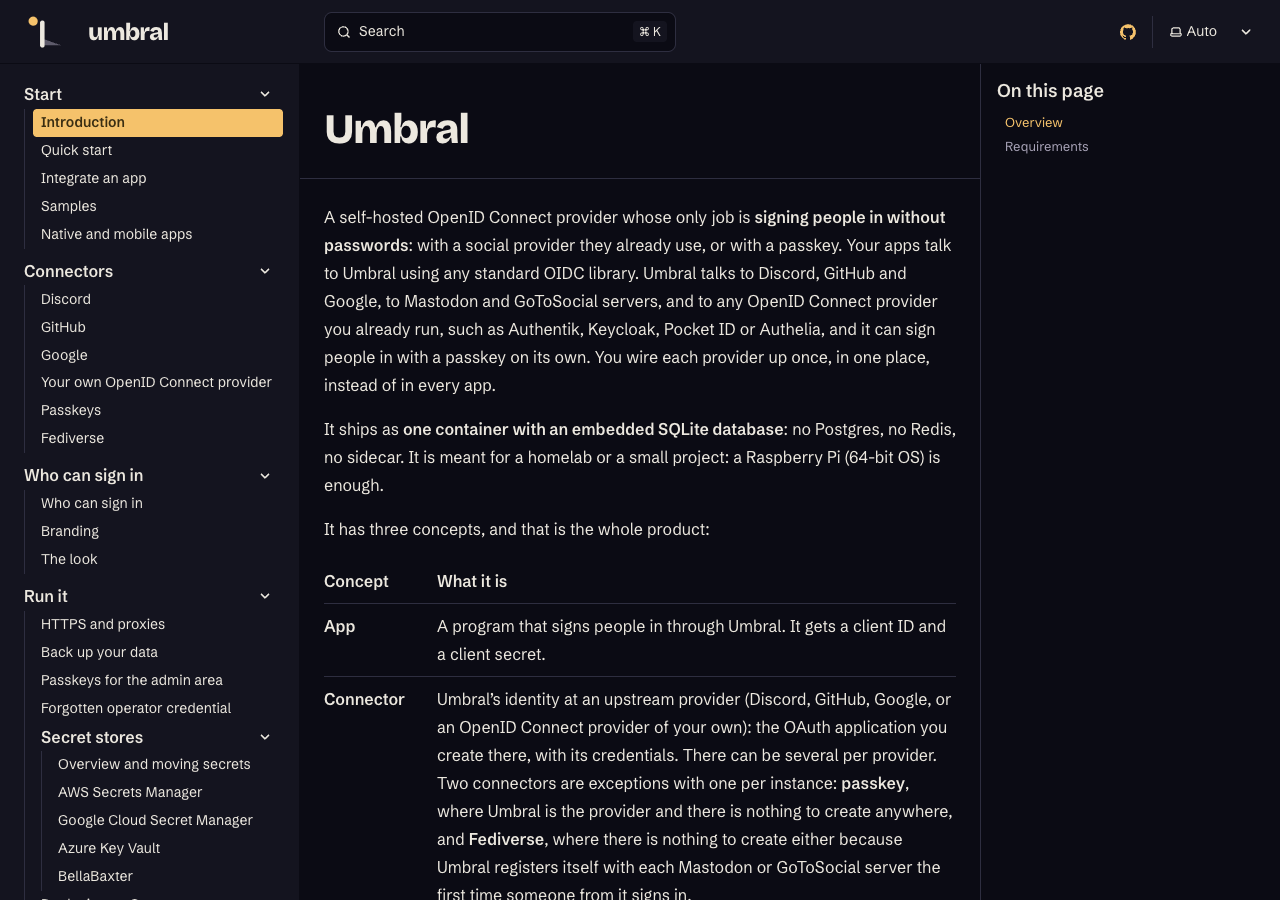
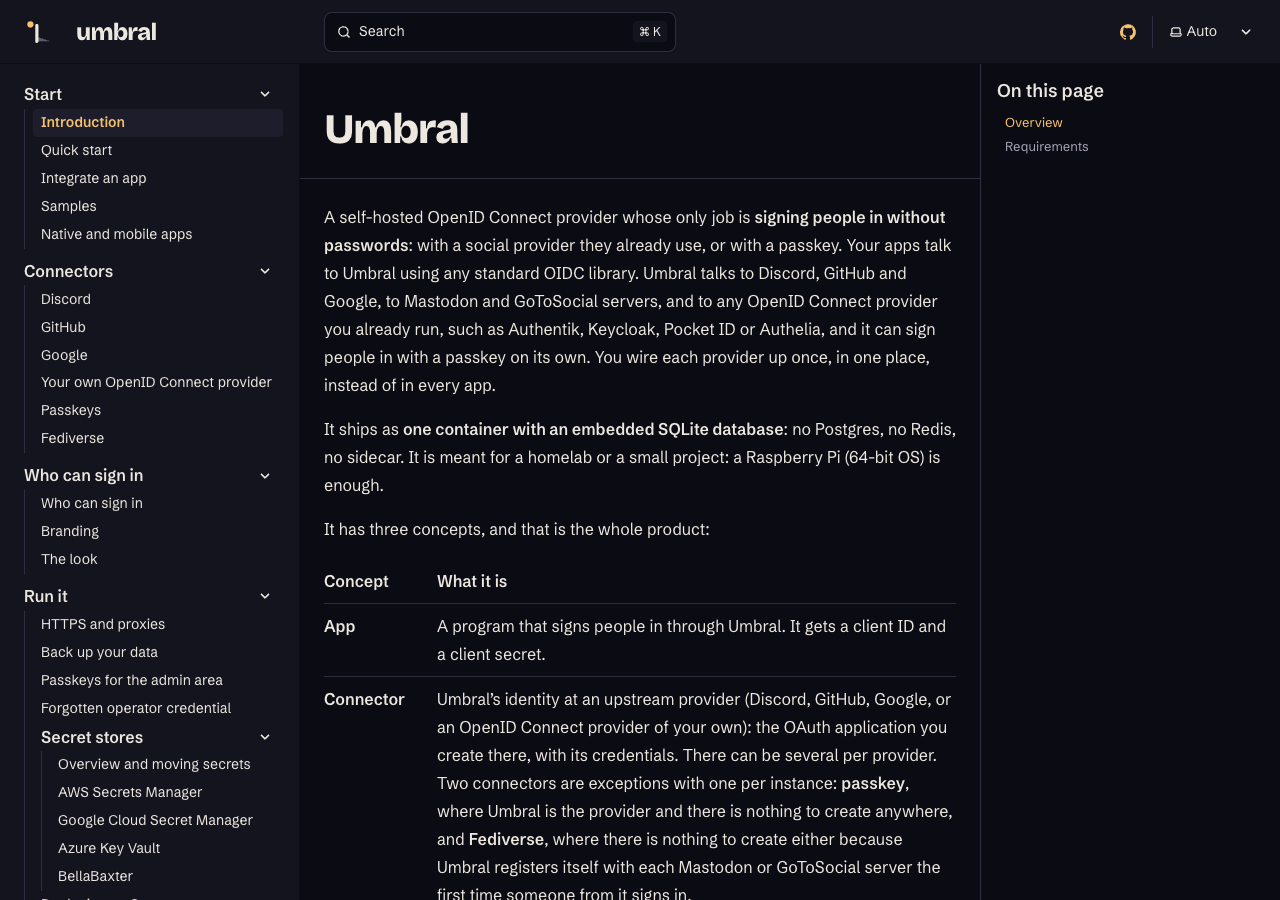
review(docs-site): take the design and documentation reviews (task hmfr)
Design (review.md, one blocking item and three nits, all in umbra.css):
the current sidebar entry is the product's rail, a tonal step with the label
in gold at 600, not Starlight's filled pill; h2 is headline large, 1.5rem on
2rem; the header mark is 1.75rem high; the search field's focus ring is the
gold, not the browser's blue. The pair is in the contrast table. All captures
retaken.

Documentation (review-docs.md, clear, four nits): the admin-area passkeys
are their own page, docs/run/operator-passkeys.md, titled as its sidebar row
(was docs/passkeys.md); the security-log sentence and the memory paragraph
about people's passkeys move into the walkthrough's Gotchas; the README's
"Run it for real" sentence takes the reviewer's wording; the release
workflow's comment names docs/run/caravana.md. The review's blocking item, a
log message in Program.fs that cites the README's Troubleshooting, is in the
follow-up task hhww, since this branch does not touch src/.

Changed region(s): [[0.0, 0.0933, 0.2188, 0.1556], [0.0312, 0.0311, 0.125, 0.0622]]

diff --git a/site/src/styles/umbra.css b/site/src/styles/umbra.css
@@ -60,6 +60,9 @@
      the page colour here; the hairline of both themes is the fifth step. */
   --sl-color-hairline: var(--sl-color-gray-5);
   --sl-color-hairline-light: var(--sl-color-gray-5);
+
+  /* Behind the current entry of the sidebar: the product's high tonal step. */
+  --umbra-current-bg: #1d1d2b;
 }
 
 :root[data-theme='light'] {
@@ -78,6 +81,8 @@
 
   /* The sidebar sits on the same paper as the header. */
   --sl-color-bg-sidebar: var(--sl-color-gray-7);
+
+  --umbra-current-bg: #ebe5d8;
 }
 
 /* The page title and the sections of a page in the display face; h3 and
@@ -90,7 +95,10 @@ main h1,
 main h1 {
   letter-spacing: -0.035em;
 }
+/* The product's headline large, so the page title leads and the sections mark. */
 .sl-markdown-content h2 {
+  font-size: 1.5rem;
+  line-height: 2rem;
   letter-spacing: -0.03em;
 }
 .sl-markdown-content :is(h3, h4, h5, h6) {
@@ -104,4 +112,26 @@ main h1 {
   letter-spacing: -0.035em;
   text-transform: lowercase;
   color: var(--sl-color-white);
+}
+/* The mark at about the wordmark's line height, as in the product's rail. */
+.site-title img {
+  height: 1.75rem;
+  width: auto;
+}
+
+/* The current page, as the product's rail draws it: a tonal step and gold
+   text, never a fill. */
+.sidebar-content a[aria-current='page'],
+.sidebar-content a[aria-current='page']:hover,
+.sidebar-content a[aria-current='page']:focus {
+  background-color: var(--umbra-current-bg);
+  color: var(--sl-color-text-accent);
+  font-weight: 600;
+}
+
+/* The search field's focus ring is the browser's own blue otherwise, the one
+   colour here that is neither a tone, the gold nor a status. */
+#starlight__search .pagefind-ui__search-input:focus-visible {
+  outline: 2px solid var(--sl-color-text-accent);
+  outline-offset: 2px;
 }

diff --git a/.alta/reviews/2026-11-05-docs-site/notes.md b/.alta/reviews/2026-11-05-docs-site/notes.md
@@ -43,9 +43,10 @@ Line numbers are `README.md` at `3c87b72` (1570 lines). The README is now 412 li
 | How it looks (534–571) | `docs/look.md` | `/look/` |
 | Brand an app's sign-in page (573–662) | `docs/branding.md` | `/branding/` |
 | Who can sign in (664–755) | `docs/who-can-sign-in.md` | `/who-can-sign-in/` |
-| Passkeys: opening (759–764), the security log (819–823), memory (825–827) | `docs/passkeys.md` | `/passkeys/` |
+| Passkeys: opening (759–764) | not kept twice: the walkthrough's opening says it (table below) | `/connectors/passkey/` |
+| Passkeys: the security log (819–823), memory (825–827) | `docs/connectors/passkey.md`, Gotchas (after the documentation review; first in `docs/passkeys.md`) | `/connectors/passkey/` |
 | Passkeys: Enable the connector … JavaScript (766–817) | not kept twice: `docs/connectors/passkey.md` says it (table below) | `/connectors/passkey/` |
-| Passkeys for the admin area (829–878) | `docs/passkeys.md` | `/passkeys/` |
+| Passkeys for the admin area (829–878) | `docs/run/operator-passkeys.md` (after the documentation review; first `docs/passkeys.md`) | `/run/operator-passkeys/` |
 | Run it for real, behind HTTPS (880–974) | `docs/run/https.md`; the README keeps one new paragraph | `/run/https/` |
 | Deploying on Caravana, with Release and the Caravana backup (976–1229) | `docs/run/caravana.md` | `/run/caravana/` |
 | Your data: back it up, with Upgrading (1231–1329) | `docs/run/backup.md`; the README keeps one new paragraph | `/run/backup/` |
@@ -56,8 +57,8 @@ Line numbers are `README.md` at `3c87b72` (1570 lines). The README is now 412 li
 | Contributing (1545–1566) | README; one link target changed, one sentence added about `site/` | not published |
 | License (1568–1570) | README, unchanged | not published |
 
-For T4, when it runs: "Passkeys" findings are in `docs/passkeys.md` and
-`docs/connectors/passkey.md`; "Run it for real" in `docs/run/https.md`; "Backup" in
+For T4, when it runs: "Passkeys" findings are in `docs/connectors/passkey.md` and
+`docs/run/operator-passkeys.md`; "Run it for real" in `docs/run/https.md`; "Backup" in
 `docs/run/backup.md`; "Moving secrets" in `docs/run/secret-stores.md`; "Settings" in
 `docs/run/settings.md`; "Troubleshooting" in `docs/run/troubleshooting.md`; "Who can sign in" in
 `docs/who-can-sign-in.md`. The Requirements item of W11 is still in the README.
@@ -96,6 +97,7 @@ unchanged apart from two link targets.
 
 | README paragraph (lines) | Where `docs/connectors/passkey.md` says it |
 | --- | --- |
+| The opening (759–764): what a passkey is, Umbral keeps the public half, Umbral is the provider, a person's passkeys belong to their user | The opening ("Umbral is the provider: it keeps only the public half"); "Adding a passkey…" ("An account holds up to 10 passkeys"); "Removing a passkey" ("Deleting a user deletes their passkeys") |
 | Enable the connector (766–773) | "1. Enable the connector" |
 | Invite someone (775–782) | "2. Invite someone", "3. What the person sees" |
 | Signing in (784–786) | "Signing in" |
@@ -106,10 +108,11 @@ unchanged apart from two link targets.
 | Bound to the address (810–812) | "Before you start", and Gotchas, "Changing the domain stops every passkey" |
 | JavaScript (814–817) | Gotchas, "JavaScript is needed" |
 
-The security-log paragraph (819–823) is kept in `docs/passkeys.md` although the walkthrough's
-Gotchas name the same events, because its last sentence, "No challenge, credential id, key or
-invitation link is ever logged", is said nowhere else. The memory paragraph is said nowhere else
-either.
+The security-log paragraph's last sentence, "No challenge, credential id, key or invitation link
+is ever logged", and the memory paragraph were said nowhere else. They were first kept in
+`docs/passkeys.md`; the documentation review lifted the links-only rule for them, and they are now
+in the walkthrough's Gotchas: the sentence in "The security log" (which already named the events),
+the memory paragraph as a bullet of its own.
 
 ## New sentences
 
@@ -128,8 +131,11 @@ Everything not in the list above that is new text:
 - README, Contributing: one sentence on `site/`.
 - `docs/integrate.md`: the lead paragraph, which sends a GitHub reader to the README for the three
   values. The site drops it (the README's section is the lead there).
-- `docs/passkeys.md`: "Umbral uses passkeys in two places, and they are separate:" and its two
-  bullets.
+- `docs/run/operator-passkeys.md`: "For the passkeys of the people who sign in to your apps, see
+  the Passkeys walkthrough."
+- `docs/connectors/passkey.md`, Gotchas: "Passkeys for the admin area are separate. The operator's
+  own passkeys, for signing in to the admin area, do not need this connector: see Passkeys for the
+  admin area."
 - `docs/run/secret-stores.md`: "By default Umbral keeps each connector's client secret in `/data`,
   encrypted (`UMBRAL__SECRET_STORE=local`). It can keep them in a secrets manager instead." (from
   the settings table's row for `UMBRAL__SECRET_STORE`).
@@ -269,10 +275,15 @@ light one), which the Fill Pair Rule may want as ink with gold text in the light
 ## The UI strings that cite documentation (step 5)
 
 T6 has not landed and has no task file, so there was nothing to amend. A follow-up task was
-created instead, `c36q` ("UI: point the Documentation link and the strings that cite docs at the
-documentation site"): a `DocsUrl` constant beside `RepositoryUrl`, `DocumentationUrl` (today
-`RepositoryUrl + "#readme"`, the footer's link) pointing at the site, and E14's six strings naming
-the site's pages. `Texts.fs` is not changed here. It should wait until the site is live.
+created instead, `hhww` ("UI and log: point the Documentation link and every message that cites
+docs at the documentation site"): a `DocsUrl` constant beside `RepositoryUrl`, `DocumentationUrl`
+(today `RepositoryUrl + "#readme"`, the footer's link) pointing at the site, E14's six strings
+naming the site's pages, and **the log message at `src/Umbral/Program.fs:556`**: the schema-9
+upgrade warning sends operators to "Troubleshooting in the README", which this branch moved to
+`docs/run/troubleshooting.md`. The documentation review found that one (its blocking item, for the
+follow-up); it is in `hhww`'s "Why" and "What to do". (`hhww` replaces `c36q`, which was removed
+and created again with the added item, since a task cannot be edited.) Nothing under `src/` is
+changed here. The task should wait until the site is live, and not long after.
 
 ## The maintainer's steps
 
@@ -293,3 +304,41 @@ the site's pages. `Texts.fs` is not changed here. It should wait until the site 
 - **Code** (`umbral`): `site/scripts/collect.mjs`, `site/scripts/check-dist.mjs`,
   `.github/workflows/pages.yml`, the pins, `site/package-lock.json` (381 packages, all from
   `registry.npmjs.org`).
+
+## After the reviews (2026-11-11)
+
+### Design (`review.md`): one blocking item, three nits, all taken in `site/src/styles/umbra.css`
+
+- **Blocking, the current sidebar entry.** It was Starlight's filled pill. It is now the product's
+  rail: the high tonal step (`#1d1d2b` dark, `#ebe5d8` light) with the label in the theme's gold at
+  600, on `.sidebar-content a[aria-current='page']` (and its hover and focus), which outranks
+  Starlight's own rule in the built CSS. The pair is in the contrast table of `site/README.md`:
+  10.14 dark, 4.72 light.
+- **h2** is the product's headline large, `1.5rem` / `2rem`, still in the display face.
+- **The header mark** is `1.75rem` high.
+- **The search field's focus ring** was the browser's own blue (the input had no outline rule); it
+  is `2px solid` in the theme's gold.
+- Code blocks keep Starlight's themes, as ruled.
+- All 13 captures were taken again from the new build.
+
+### Documentation (`review-docs.md`, `8d66e66`): clear, one item for the follow-up, four nits
+
+- **The log message** (`Program.fs:556`): in the follow-up task `hhww`, see "The UI strings that
+  cite documentation" above.
+- **Nit 1**: the comment in `.github/workflows/release.yml` names `docs/run/caravana.md`.
+- **Nit 2, one name for one page**: taken in full. `docs/passkeys.md` is now
+  `docs/run/operator-passkeys.md`, titled "Passkeys for the admin area" as its sidebar row and the
+  README's Contents call it, and holds that section alone, with one sentence that points to the
+  walkthrough for people's passkeys. The security-log sentence and the memory paragraph are in the
+  walkthrough's Gotchas, with one bullet that points back. So the first of the "Decisions the task
+  left open" above is settled this way: two pages, each on one subject. The route is
+  `/run/operator-passkeys/`.
+- **Nit 3**: no pull request exists yet (this session does not open one unasked). When one is
+  opened, its description should say that the README's links to the site are dead until the
+  `pages` workflow has run once, so that the merge and the first run happen in one sitting. It is
+  step 4 of "The maintainer's steps".
+- **Nit 4**: the README's "Run it for real" paragraph takes the reviewer's wording.
+
+After these: `check-links.py` passes (270 links in 34 files), the site builds clean (28 pages, all
+internal links valid, nothing requested from another host), `actionlint` passes on both workflows
+touched.

diff --git a/.alta/reviews/2026-11-05-docs-site/review.md b/.alta/reviews/2026-11-05-docs-site/review.md
@@ -1,0 +1,98 @@
+# Design review: the look of the documentation site
+
+Task hmfr. Branch `alta/roaming-foxglove-m2q5`, `ca96f84` (the site) and `65a2f69` (notes,
+captures). Reviewed 2026-11-11 by the design reviewer from `site/src/styles/umbra.css`, the
+config, the Impeccable detector and the 13 captures. Mode: **Read**. The reader is an operator
+half-way through a set-up; the site's job is that they find the step and read it without the
+chrome asking for attention. This file is also the short design note the maintainer asked for:
+the four rulings below are that note.
+
+Building before asking was fine in the circumstances, and building it as one stylesheet of
+Starlight's custom properties was the right way to make that cheap.
+
+## Verdict
+
+**Not yet clear: one blocking item, three nits.** All four are a few lines in `umbra.css`. No
+component, layout or script is needed for any of them, so the maintainer's constraint holds.
+
+## What is right and stays
+
+- Colours taken from the product's tokens through Starlight's grey scale and accent set, both
+  themes, with the roles of the light theme's inverted scale written beside each step.
+- The three shipped faces through the product's own `@font-face` blocks, copied at build time,
+  nothing from another host.
+- The hairline on the fifth grey step in both themes; Starlight's own dark hairline would
+  vanish on ink. A correct departure.
+- The lowercase wordmark by CSS, in the text colour; the Gnomon in its own colours per theme,
+  never the accent's; the favicon tile.
+- Links underlined in the theme's gold; inline code on the hairline tone; the "On this page"
+  current entry in gold text.
+- Contrast table in `site/README.md`, lowest pair 4.72.
+- Detector on `umbra.css`: no findings.
+- 360: no overflow, the title wraps well, the code block scrolls inside itself.
+
+## The four questions
+
+1. **The current sidebar entry: not a fill.** Blocking, item 1 below. A navigation highlight
+   is not the Fill Pair's business at all: that rule is about the primary button. The product
+   already says how the current place looks (DESIGN.md, Navigation): the high tonal step with
+   the label in gold at 600. The docs sidebar should be the product's rail.
+2. **Code blocks: leave Starlight's themes.** Their frames already take the site's greys, the
+   syntax colours are content, not accent, and Expressive Code holds them to its own contrast
+   floor in both themes. A hand-made syntax theme is a maintenance cost with no reader benefit.
+3. **The display face on h2: yes, at the product's size.** Nit 2 below. DESIGN.md gives the
+   display face two sizes, display and headline large (24px), and that is where h2 belongs.
+4. **The header mark: the right drawing, a little large.** Nit 3 below. `Mark.small` is the cut
+   for this size.
+
+## Blocking
+
+1. **The current sidebar entry is a filled gold slab.** In `start-1280-dark` it is the
+   brightest thing on the page, brighter than the page title, on every page; in the light theme
+   (`connector-discord-1280-light`) it is `#8a5a00` with light text, a pair that exists nowhere
+   in the product. One accent used sparingly is the system's first characteristic. Make it the
+   rail's current entry:
+
+   ```css
+   /* The current page, as the product's rail draws it: a tonal step and gold
+      text, never a fill. */
+   .sidebar-content a[aria-current='page'],
+   .sidebar-content a[aria-current='page']:hover,
+   .sidebar-content a[aria-current='page']:focus {
+     background-color: var(--umbra-current-bg);
+     color: var(--sl-color-text-accent);
+     font-weight: 600;
+   }
+   ```
+
+   with `--umbra-current-bg: #1d1d2b` on `:root` and `#ebe5d8` under `[data-theme='light']`
+   (the product's `surface-container-high` in each theme). Gold `#f5c26b` on `#1d1d2b` and
+   `#8a5a00` on `#ebe5d8` are both existing pairs; the second is the 4.72 already in your table.
+   Check the selector against the built markup, and add the two pairs to the contrast table.
+
+## Nits
+
+2. **h1 and h2 are nearly the same size, both at 800.** In `connector-discord-1280-light` the
+   title and "Before you start" differ by a few pixels, so a page with eleven sections reads as
+   eleven titles. Keep the display face on h2 and set it to the product's headline large:
+   `font-size: 1.5rem; line-height: 2rem;` on `.sl-markdown-content h2`. The page title then
+   leads, sections mark, h3 stays in the text face at 600.
+3. **The header mark is taller than the wordmark beside it.** In the product's lockup the mark
+   sits at about the wordmark's line height. Bring the logo to `1.75rem` high
+   (`.site-title img { height: 1.75rem; width: auto; }`), so the lockup reads as in the rail.
+4. **The search field's focus outline is blue** (`search-1280-dark`), the one colour on the
+   site that is neither a tone, gold, nor a status. Find where it comes from (the browser's own
+   ring on the Pagefind input, or a Pagefind variable) and make it the accent:
+   `outline-color: var(--sl-color-text-accent)` on that input's `:focus-visible`, or the
+   Pagefind variable if that is the source.
+
+## Outside the look, for the documentation reviewer
+
+`connector-discord` opens with "Back to the README. Other providers: …". On the site there is
+a sidebar for both, and "the README" is no longer where the reader came from. That line is the
+docs review's to rule on, not mine.
+
+## Re-check
+
+Recapture `start` and `connector-discord` at 1280 in both themes and `search-1280-dark`, and
+send the commit. One look.

diff --git a/docs/run/operator-passkeys.md b/docs/run/operator-passkeys.md
@@ -1,36 +1,12 @@
-# Passkeys
-
-A passkey is a key that a person's phone, laptop or security key holds, unlocked
-by their fingerprint, face or PIN. Nothing is typed and there is nothing to
-phish, and no third party learns who signed in. Umbral keeps only the public
-half, which is not a secret. In Umbral a passkey is a connector (Umbral itself
-is the provider), and a person's passkeys belong to their user. Details and
-gotchas are in the [Passkeys walkthrough](connectors/passkey.md).
-
-Umbral uses passkeys in two places, and they are separate:
-
-- **For the people who sign in to your apps**, through the passkey connector. The walkthrough
-  covers enabling it, inviting someone, signing in, adding a passkey to an account that signs in
-  with a provider, recovery, removing a passkey and what an app receives.
-- **For you, in the admin area.** See [Passkeys for the admin area](#passkeys-for-the-admin-area)
-  below.
-
-**The security log.** The events are `passkey_registered`, `passkey_removed`,
-`passkey_invitation_created` and `passkey_invitation_revoked`, and a refused
-passkey sign-in or invitation is a `sign_in_failed` event whose detail starts
-`passkey_refused;reason=`. No challenge, credential id, key or invitation link is
-ever logged.
-
-**Memory.** An instance with the passkey connector in use idles under 160 MB (a
-ceiling, as with an external secret store; the figure is confirmed by the
-idle-memory test). Without the connector it stays under 150 MB.
-
-## Passkeys for the admin area
+# Passkeys for the admin area
 
 You can also sign in to the admin area with a passkey. These passkeys are the
 operator's own, not people's. They do not need the passkey connector to be
 enabled, they never appear on **Users**, and they never sign anyone in to an
 app.
+
+For the passkeys of the people who sign in to your apps, see the
+[Passkeys walkthrough](../connectors/passkey.md).
 
 Open **Credential** in the side rail. The page has three parts: **Passkeys**,
 **Password sign-in** and **Password**.
@@ -65,7 +41,7 @@ working; a change of scheme or port does not.
 
 **If you lose the device.** Run `reset-credential` on the host. It keeps the
 passkeys unless you add `--forget-passkeys` (see
-[Forgotten operator credential](run/operator-credential.md)).
+[Forgotten operator credential](operator-credential.md)).
 
 **The security log.** Adding a passkey is `operator_passkey_added`, removing one
 is `operator_passkey_removed`, and a change of the switch is

diff --git a/README.md b/README.md
@@ -62,7 +62,7 @@ reads the same here on GitHub.
 - **Run it:**
   [HTTPS and proxies](https://cosmic-chimps.github.io/umbral/run/https/) ·
   [Back up your data](https://cosmic-chimps.github.io/umbral/run/backup/) ·
-  [Passkeys for the admin area](https://cosmic-chimps.github.io/umbral/passkeys/) ·
+  [Passkeys for the admin area](https://cosmic-chimps.github.io/umbral/run/operator-passkeys/) ·
   [Forgotten operator credential](https://cosmic-chimps.github.io/umbral/run/operator-credential/) ·
   [Secret stores](https://cosmic-chimps.github.io/umbral/run/secret-stores/) ·
   [AWS Secrets Manager](https://cosmic-chimps.github.io/umbral/secret-stores/aws/) ·
@@ -182,7 +182,7 @@ other admin session out.
 Once you are in, you can add a passkey under **Credential** and sign in with
 it from the sign-in page with **Sign in with a passkey**. When you have one,
 you can turn password sign-in off there (see
-[Passkeys](docs/passkeys.md#passkeys-for-the-admin-area)).
+[Passkeys](docs/run/operator-passkeys.md)).
 
 > `/admin` always takes you to the right place: the setup page the first time,
 > the sign-in page afterwards. `/` is a short public home page (what Umbral is,
@@ -370,9 +370,9 @@ Umbral serves plain HTTP on port 8080 inside the container and expects a reverse
 of it to terminate TLS. The repository's [`docker-compose.yml`](docker-compose.yml) does this
 with Caddy, which also fetches and renews the certificate: point a domain name at the machine,
 make ports 80 and 443 reach it, and run `UMBRAL_DOMAIN=auth.example.com docker compose up -d`.
-The whole of it, why `UMBRAL__PUBLIC_ORIGIN` must be exactly the address people use, and what
-another reverse proxy must send are in [Run it for real, behind HTTPS](docs/run/https.md). On a
-Caravana host, see [Deploying on Caravana](docs/run/caravana.md).
+The rest is in [Run it for real, behind HTTPS](docs/run/https.md): why `UMBRAL__PUBLIC_ORIGIN`
+must be exactly the address people use, and what another reverse proxy must send. On a Caravana
+host, see [Deploying on Caravana](docs/run/caravana.md).
 
 ## Your data: back it up
 

diff --git a/docs/connectors/passkey.md b/docs/connectors/passkey.md
@@ -184,5 +184,12 @@ it is invitations only. See [Who can sign in](../who-can-sign-in.md).
   `security_events` as `passkey_refused;reason=invitation_…`.
 - **The security log** records `passkey_registered`, `passkey_removed`,
   `passkey_invitation_created` and `passkey_invitation_revoked`, and refusals as
-  `sign_in_failed` with `passkey_refused;reason=…`. See
+  `sign_in_failed` with `passkey_refused;reason=…`. No challenge, credential id,
+  key or invitation link is ever logged. See
   [Troubleshooting](../run/troubleshooting.md).
+- **Memory.** An instance with the passkey connector in use idles under 160 MB (a
+  ceiling, as with an external secret store; the figure is confirmed by the
+  idle-memory test). Without the connector it stays under 150 MB.
+- **Passkeys for the admin area are separate.** The operator's own passkeys,
+  for signing in to the admin area, do not need this connector: see
+  [Passkeys for the admin area](../run/operator-passkeys.md).

diff --git a/site/README.md b/site/README.md
@@ -61,6 +61,7 @@ The pairs of text and background of the Umbra mapping, as contrast ratios (WCAG,
 | Link text on the page (accent-high in the dark theme, accent in the light) | 11.95 | 5.25 |
 | Link text on the header and sidebar | 11.14 | 5.54 |
 | Link text on inline code | 8.10 | 4.72 |
+| The current sidebar entry: link text on its tonal step (`#1d1d2b`, `#ebe5d8`) | 10.14 | 4.72 |
 | The accent as text on the page | 5.73 | 5.25 |
 | The accent as text on the header and sidebar | 5.35 | 5.54 |
 | Outline border on the page (3:1 is enough for a border) | 4.13 | 3.58 |
